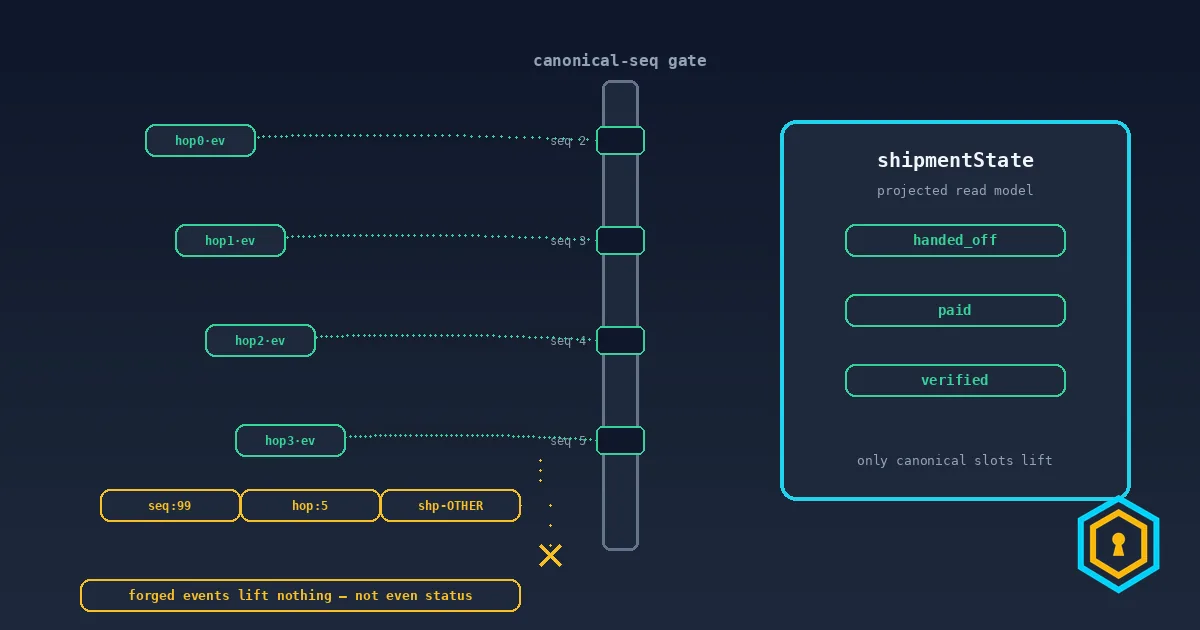
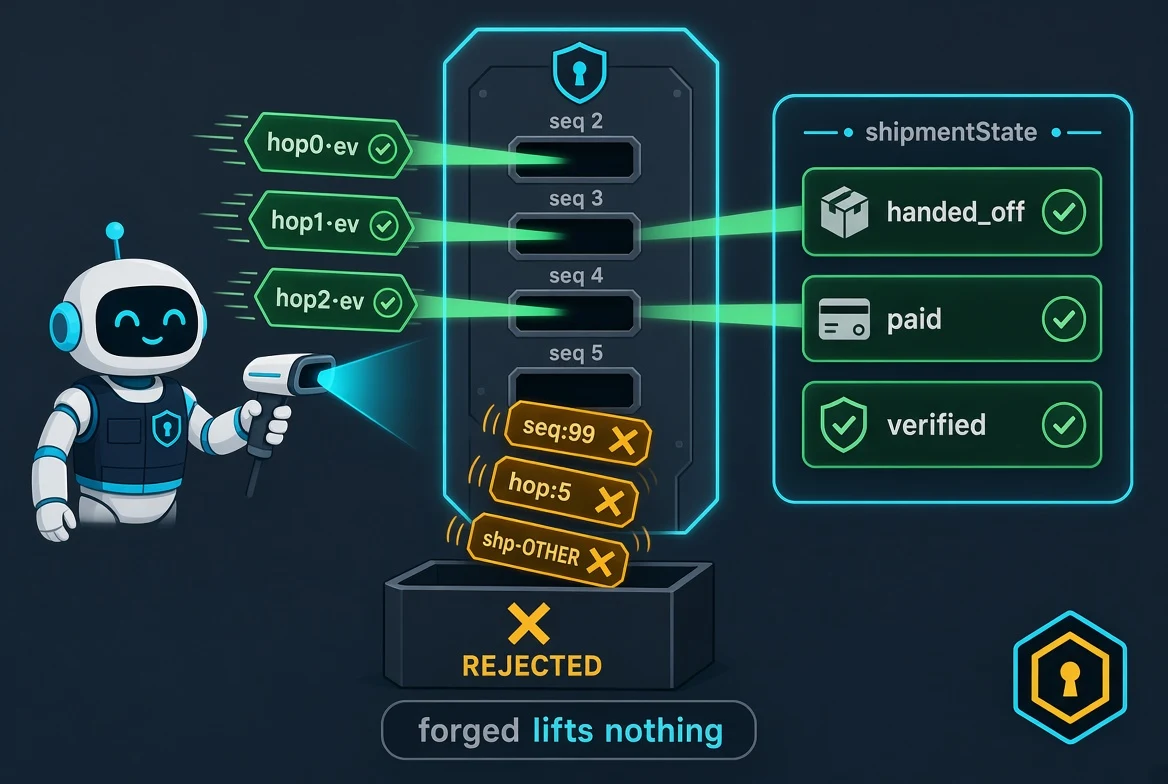
feat(blog): Grok visuals + replay-pipeline diagram for Brick #3 (SLICE-214-6)
- replace Pillow fallbacks with Grok-generated hero/inline images (webp/og)
- add supply-chain-scenario-matrix-d1.webp: mermaid canonical-gate flowchart
- embed diagram in article with explanatory figcaption (post-H-1 fix section)
- e2e: assert d1 image embed; 39 pass / 70 expects

diff --git a/src/server/lib/blog/articles/supply-chain-scenario-matrix.content.ts b/src/server/lib/blog/articles/supply-chain-scenario-matrix.content.ts
@@ -163,6 +163,26 @@ export const supplyChainScenarioMatrixContent = `
 </p>
 
 <figure class="article-image">
+  <img src="/images/blog/supply-chain-scenario-matrix-d1.webp"
+       alt="Flowchart of the replay pipeline: the append-only event stream binds the plan at the work_offer in sequence 1, then every event passes a canonical gate checking sequence slot, in-plan hop index and shipmentId — pass lifts status, flags and disputes into shipmentState, forged events drop without lifting anything; a verify event promotes the hop only on outcome pass, and a settle on a disputed hop is refused, while a real settle produces a pay event that re-enters the stream at its canonical sequence" />
+  <figcaption>
+    The replay pipeline after the H-1 fix. The plan binds once — to the
+    <code>work_offer</code> at <code>seq&nbsp;1</code> — and from then on
+    every event must pass the <em>canonical gate</em>: right sequence slot
+    for its hop and stage, an integer in-plan hop index, the bound
+    <code>shipmentId</code>. Passing lifts status, flags and disputes into
+    <code>shipmentState</code>; anything forged takes the drop path and
+    lifts nothing. Two second-order guards sit below the lift: a
+    <code>verify</code> promotes the hop only on an explicit
+    <code>"pass"</code> — <code>"inconclusive"</code> falls to the drop path
+    too — and <code>settleHop</code> refuses while the hop stands disputed.
+    A real settle emits its <code>pay</code> event back into the same
+    stream, which is what makes the whole read model replayable from the
+    ledger alone.
+  </figcaption>
+</figure>
+
+<figure class="article-image">
   <img src="/images/blog/supply-chain-scenario-matrix-3.webp"
        alt="A canonical-sequence gate wall: honest event chips labelled hop0..hop3 flow through matching seq slots into a shipmentState panel; forged chips labelled seq:99, hop:5, shp-OTHER bounce off into a rejected pool" />
   <figcaption>

diff --git a/tests/e2e/blog.test.ts b/tests/e2e/blog.test.ts
@@ -254,11 +254,12 @@ describe("Blog: Brick #3 — Scenario Matrix (SLICE-214-6)", () => {
     expect(json.status).toBe("EXPERIMENT");
   });
 
-  it("matrix + gate inline images are embedded", async () => {
+  it("matrix, gate + replay-diagram images are embedded", async () => {
     const res = await fetch(`${BASE}/blog/${SLUG}`);
     const html = await res.text();
     expect(html).toContain("/images/blog/supply-chain-scenario-matrix-2.webp");
     expect(html).toContain("/images/blog/supply-chain-scenario-matrix-3.webp");
+    expect(html).toContain("/images/blog/supply-chain-scenario-matrix-d1.webp");
   });
 
   it("article links back to anchor + bricks #1 and #2", async () => {
